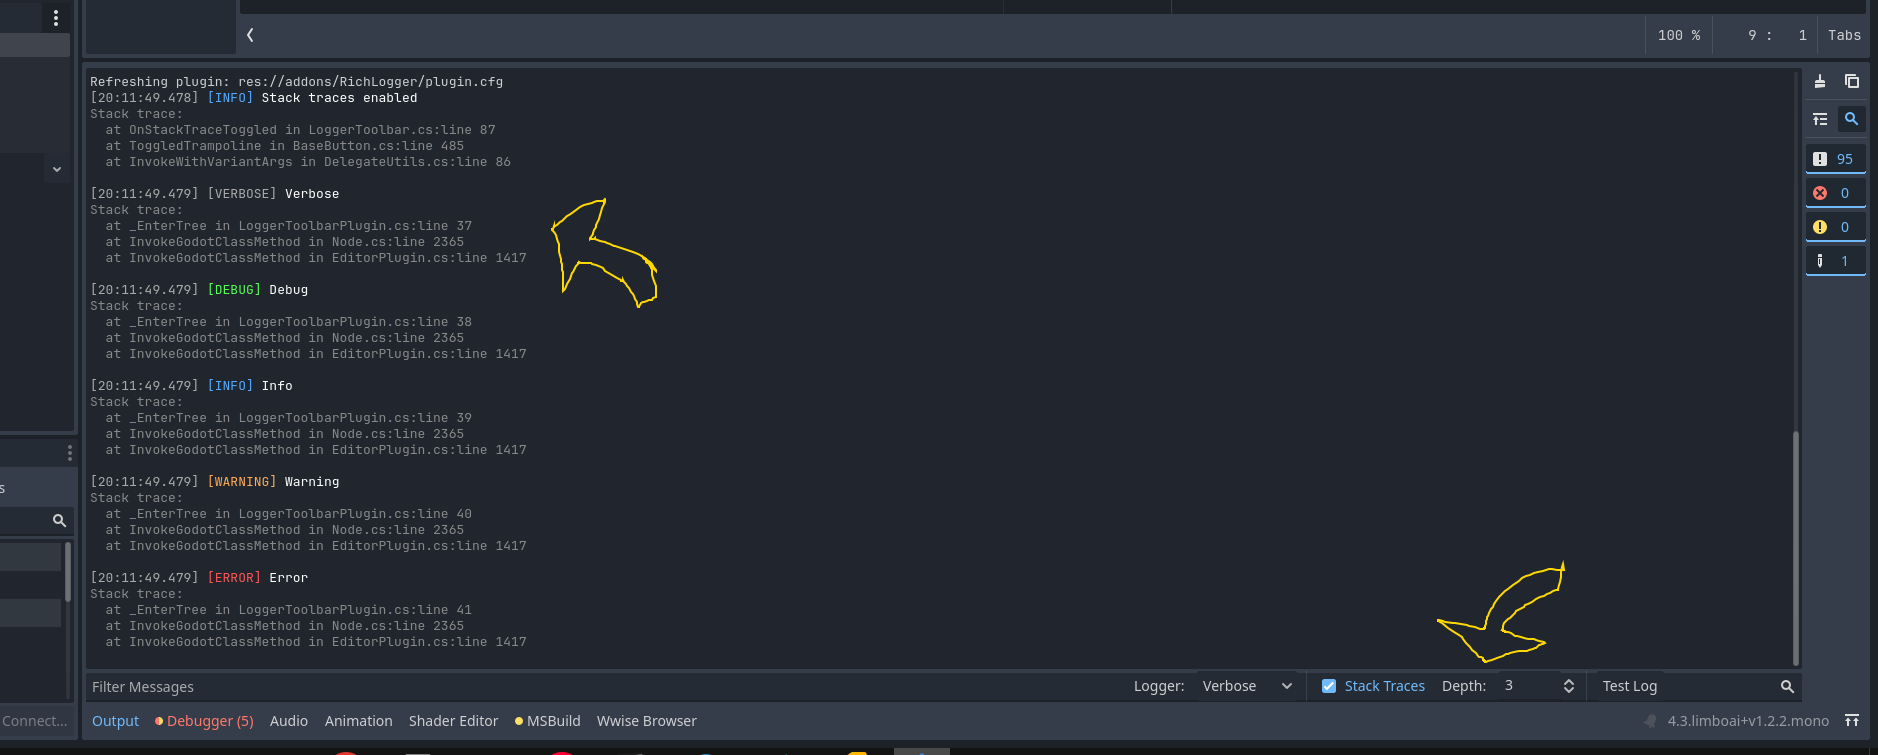
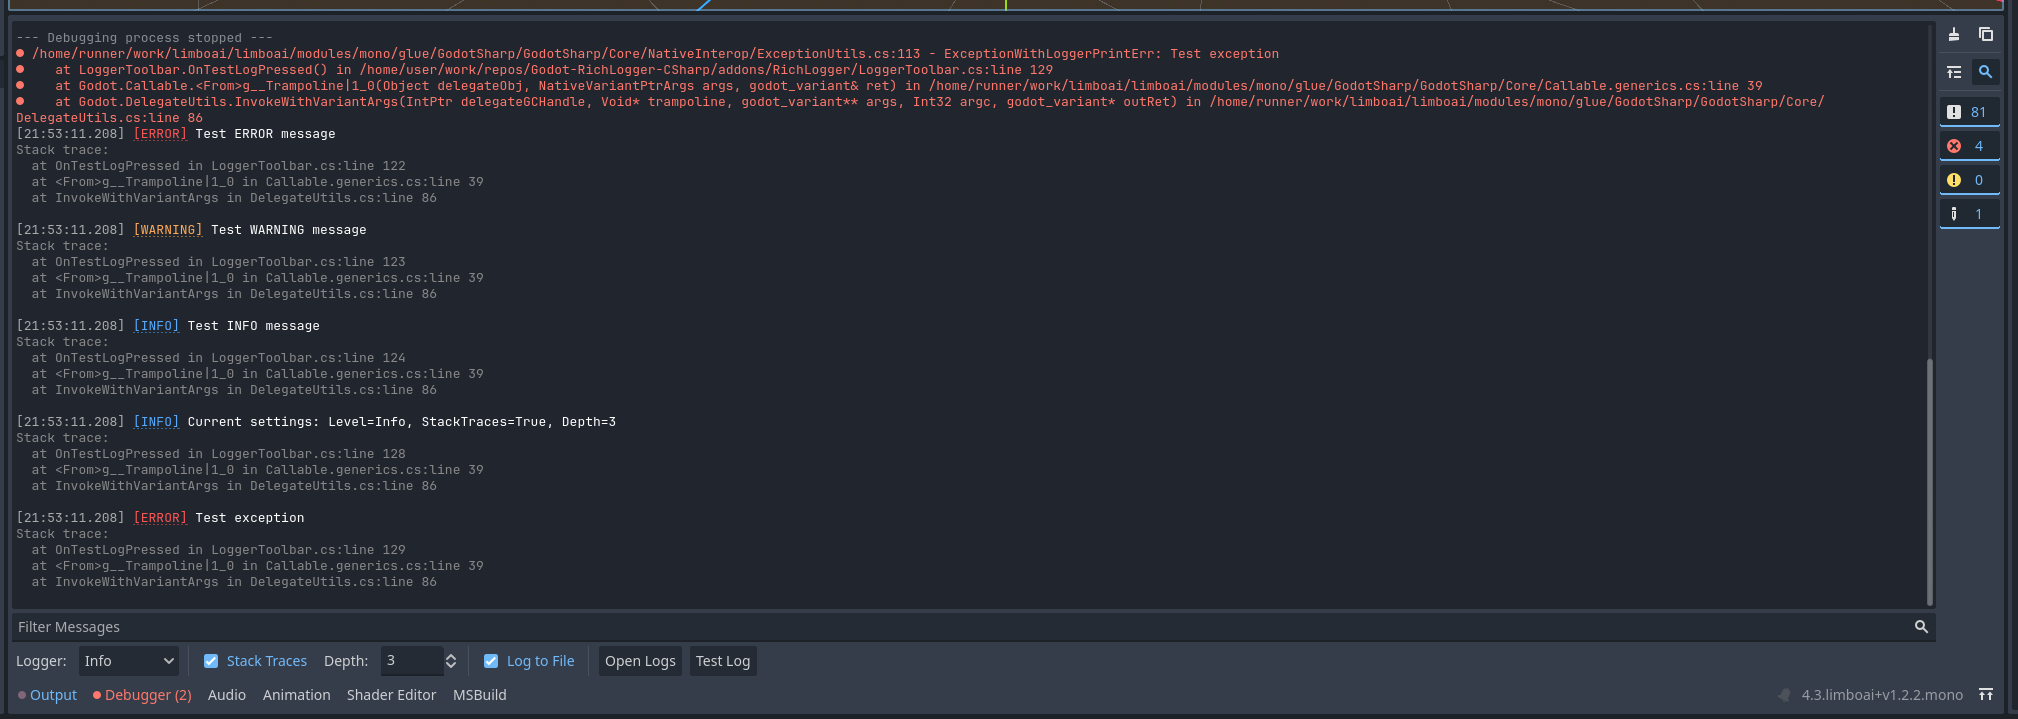
feat: add file logging with bbcode stripping and toolbar controls

diff --git a/addons/RichLogger/Logger.cs b/addons/RichLogger/Logger.cs
@@ -4,6 +4,7 @@ using System.Diagnostics;
 using System.IO;
 using System.Runtime.CompilerServices;
 using System.Text;
+using System.Text.RegularExpressions;
 
 public enum LogLevel
 {
@@ -14,22 +15,56 @@ public enum LogLevel
 	Verbose = 4
 }
 
-public static class Logger
+public static partial class Logger
 {
-	private const  string             PluginSettingsPath = "user://logger_settings.cfg";
-	private static FileSystemWatcher? _fileWatcher;
-	private static bool               _settingsChanged;
+	[GeneratedRegex(@"\[/?(?:color|hint)(?:=[^\]]+)?\]")]
+	private static partial Regex BbCodeRegex();
+
+	private const  string         PluginSettingsPath = "user://logger_settings.cfg";
+	private static LogFileWriter? _fileWriter;
+	private static DateTime       _lastSettingsCheck = DateTime.MinValue;
+	private static DateTime       _lastSettingsWrite = DateTime.MinValue;
+	private static bool           _checkInProgress;
 
 	static Logger()
 	{
 		LoadSettings();
 		SaveSettings();
-		SetupFileWatcher();
+		InitializeFileWriter();
+		_lastSettingsWrite = GetSettingsFileTime();
 	}
 
 	public static LogLevel CurrentLevel       { get; set; } = LogLevel.Info;
 	public static bool     IncludeStackTraces { get; set; }
 	public static int      StackTraceDepth    { get; set; } = 3;
+	public static bool     LogToFile          { get; set; } = true;
+
+	private static void InitializeFileWriter()
+	{
+		try
+		{
+			_fileWriter = new LogFileWriter();
+		}
+		catch (Exception ex)
+		{
+			GD.PrintErr($"Failed to initialize file writer: {ex.Message}");
+		}
+	}
+
+	private static DateTime GetSettingsFileTime()
+	{
+		try
+		{
+			var filePath = ProjectSettings.GlobalizePath(PluginSettingsPath);
+			if (File.Exists(filePath))
+				return File.GetLastWriteTimeUtc(filePath);
+		}
+		catch
+		{
+		}
+
+		return DateTime.MinValue;
+	}
 
 	public static void Error(string message,
 		[CallerMemberName] string   memberName = "",
@@ -99,8 +134,14 @@ public static class Logger
 		if (IncludeStackTraces)
 			stackTrace = GetStackTrace(skipFrames);
 
-		GD.PrintRich(coloredMessage + stackTrace);
+		var fullMessage = coloredMessage + stackTrace;
+		GD.PrintRich(fullMessage);
+
+		if (LogToFile)
+			_fileWriter?.Write(StripBbCode(fullMessage));
 	}
+
+	private static string StripBbCode(string text) => BbCodeRegex().Replace(text, "");
 
 	private static string GetCallerInfo(string memberName, string filePath, int lineNumber)
 	{
@@ -172,41 +213,20 @@ public static class Logger
 		Log(level, $"{context}: {objString}", memberName, filePath, lineNumber, skipFrames);
 	}
 
-	private static void SetupFileWatcher()
-	{
-		try
-		{
-			var filePath = ProjectSettings.GlobalizePath(PluginSettingsPath);
-			if (!File.Exists(filePath))
-				throw new FileNotFoundException($"Settings file not found: {filePath}");
-
-			var directory = Path.GetDirectoryName(filePath) ?? throw new InvalidOperationException("Invalid directory path");
-			var fileName = Path.GetFileName(filePath);
-
-			_fileWatcher = new FileSystemWatcher(directory)
-			{
-				Filter = fileName,
-				NotifyFilter = NotifyFilters.LastWrite | NotifyFilters.FileName,
-				IncludeSubdirectories = false,
-				EnableRaisingEvents = true
-			};
-			_fileWatcher.Changed += OnFileChanged;
-			_fileWatcher.Created += OnFileChanged;
-			_fileWatcher.Renamed += OnFileChanged;
-		}
-		catch (Exception ex)
-		{
-			InternalInfo($"File watcher setup failed: {ex.Message}");
-		}
-	}
-
-	private static void OnFileChanged(object sender, FileSystemEventArgs e) => _settingsChanged = true;
-
 	private static void CheckAndReloadSettings()
 	{
-		if (!_settingsChanged) return;
-		_settingsChanged = false;
-		LoadSettings();
+		var now = DateTime.UtcNow;
+		if ((now - _lastSettingsCheck).TotalSeconds < 1.0)
+			return;
+
+		_lastSettingsCheck = now;
+		var currentWriteTime = GetSettingsFileTime();
+
+		if (currentWriteTime > _lastSettingsWrite)
+		{
+			_lastSettingsWrite = currentWriteTime;
+			LoadSettings();
+		}
 	}
 
 	public static void SaveSettings()
@@ -215,6 +235,7 @@ public static class Logger
 		config.SetValue("Logger", "LogLevel", (int)CurrentLevel);
 		config.SetValue("Logger", "IncludeStackTraces", IncludeStackTraces);
 		config.SetValue("Logger", "StackTraceDepth", StackTraceDepth);
+		config.SetValue("Logger", "LogToFile", LogToFile);
 
 		var error = config.Save(PluginSettingsPath);
 		if (error != Godot.Error.Ok)
@@ -247,6 +268,12 @@ public static class Logger
 		{
 			var stackTraceDepth = (int)config.GetValue("Logger", "StackTraceDepth");
 			StackTraceDepth = stackTraceDepth;
+		}
+
+		if (config.HasSectionKey("Logger", "LogToFile"))
+		{
+			var logToFile = (bool)config.GetValue("Logger", "LogToFile");
+			LogToFile = logToFile;
 		}
 	}
 }

diff --git a/addons/RichLogger/LoggerToolbar.cs b/addons/RichLogger/LoggerToolbar.cs
@@ -6,6 +6,8 @@ public partial class LoggerToolbar : HBoxContainer
     private OptionButton _logLevelDropdown = null!;
     private CheckBox _stackTraceToggle = null!;
     private SpinBox _stackDepthSpinner = null!;
+    private CheckBox _logToFileToggle = null!;
+    private Button _openLogsButton = null!;
     private Button _testLogButton = null!;
 
     private string _pluginSettingsPath = "user://logger_settings.cfg";
@@ -60,6 +62,20 @@ public partial class LoggerToolbar : HBoxContainer
         var separator2 = new VSeparator();
         AddChild(separator2);
 
+        _logToFileToggle = new CheckBox { Text = "Log to File" };
+        _logToFileToggle.TooltipText = "Enable logging to file (user://logs/)";
+        _logToFileToggle.Toggled += OnLogToFileToggled;
+        AddChild(_logToFileToggle);
+
+        var separator3 = new VSeparator();
+        AddChild(separator3);
+
+        _openLogsButton = new Button();
+        _openLogsButton.Text = "Open Logs";
+        _openLogsButton.TooltipText = "Open logs directory";
+        _openLogsButton.Pressed += OnOpenLogsPressed;
+        AddChild(_openLogsButton);
+
         _testLogButton = new Button();
         _testLogButton.Text = "Test Log";
         _testLogButton.TooltipText = "Generate test logs at all levels";
@@ -88,6 +104,19 @@ public partial class LoggerToolbar : HBoxContainer
         Logger.SaveSettings();
     }
 
+    private static void OnLogToFileToggled(bool toggled)
+    {
+        Logger.LogToFile = toggled;
+        Logger.InternalInfo($"Log to file {(toggled ? "enabled" : "disabled")}");
+        Logger.SaveSettings();
+    }
+
+    private static void OnOpenLogsPressed()
+    {
+        var logsPath = ProjectSettings.GlobalizePath("user://logs/");
+        OS.ShellOpen(logsPath);
+    }
+
     private static void OnTestLogPressed()
     {
         Logger.Error("Test ERROR message");
@@ -105,5 +134,6 @@ public partial class LoggerToolbar : HBoxContainer
         _logLevelDropdown.Selected = (int)Logger.CurrentLevel;
         _stackTraceToggle.ButtonPressed = Logger.IncludeStackTraces;
         _stackDepthSpinner.Value = Logger.StackTraceDepth;
+        _logToFileToggle.ButtonPressed = Logger.LogToFile;
     }
 }

diff --git a/addons/RichLogger/LogFileWriter.cs b/addons/RichLogger/LogFileWriter.cs
@@ -1,0 +1,101 @@
+using Godot;
+using System;
+using System.IO;
+using System.Linq;
+
+public class LogFileWriter : IDisposable
+{
+	private readonly string       _logFilePath;
+	private readonly string       _logDirectory;
+	private          StreamWriter? _writer;
+	private          int          _messagesSinceFlush;
+	private          bool         _flushInProgress;
+
+	private const int FlushThreshold = 10;
+
+	public int MaxLogFiles { get; set; } = 10;
+
+	public LogFileWriter()
+	{
+		_logDirectory = ProjectSettings.GlobalizePath("user://logs/");
+		Directory.CreateDirectory(_logDirectory);
+
+		CleanupOldLogs();
+
+		var timestamp = DateTime.Now.ToString("yyyy-MM-dd_HH-mm-ss");
+		var context = Engine.IsEditorHint() ? "editor" : "game";
+		_logFilePath = Path.Combine(_logDirectory, $"logger_{timestamp}_{context}.log");
+
+		_writer = new StreamWriter(_logFilePath, true) { AutoFlush = false };
+	}
+
+	public void Write(string message)
+	{
+		if (_writer == null) return;
+
+		try
+		{
+			_writer.WriteLine(message);
+			_messagesSinceFlush++;
+
+			if (_messagesSinceFlush >= FlushThreshold && !_flushInProgress)
+			{
+				_messagesSinceFlush = 0;
+				_flushInProgress = true;
+
+				var writer = _writer;
+				WorkerThreadPool.AddTask(Callable.From(() =>
+				{
+					try
+					{
+						writer?.Flush();
+					}
+					catch (Exception ex)
+					{
+						GD.PrintErr($"LogFileWriter flush error: {ex.Message}");
+					}
+					finally
+					{
+						_flushInProgress = false;
+					}
+				}));
+			}
+		}
+		catch (Exception ex)
+		{
+			GD.PrintErr($"LogFileWriter error: {ex.Message}");
+		}
+	}
+
+	private void CleanupOldLogs()
+	{
+		try
+		{
+			var logFiles = Directory.GetFiles(_logDirectory, "logger_*.log")
+				.OrderByDescending(f => f)
+				.Skip(MaxLogFiles - 1)
+				.ToList();
+
+			foreach (var file in logFiles)
+				File.Delete(file);
+		}
+		catch (Exception ex)
+		{
+			GD.PrintErr($"Failed to cleanup old logs: {ex.Message}");
+		}
+	}
+
+	public void Dispose()
+	{
+		try
+		{
+			_writer?.Flush();
+			_writer?.Dispose();
+			_writer = null;
+		}
+		catch (Exception ex)
+		{
+			GD.PrintErr($"LogFileWriter dispose error: {ex.Message}");
+		}
+	}
+}

diff --git a/README.md b/README.md
@@ -5,9 +5,12 @@ A feature-rich logging utility addon for Godot 4.x C# projects that enhances the
 
 ## Features
 - **Enhanced Output Formatting** - Format your logs with rich text, colors, and styling
-- **Log Filtering** - Filter logs by log level directly from the Godot editor
+- **5 Log Levels** - Error, Warning, Info, Debug, Verbose with visual differentiation
+- **Stack Traces** - Toggle stack traces on/off with configurable depth
+- **Caller Information** - Hover over log level to see class, method, file, and line number
 - **Integrated Toolbar** - Convenient controls added to the output panel
-- **Log Levels** - Standard log levels (Debug, Info, Warning, Error) with visual differentiation
+- **Runtime Settings** - Change log settings during gameplay, updates automatically
+- **File Logging** - Write logs to files, quick access button to open logs directory, non-blocking file I/O
 - **Easy Integration** - Simple API for logging from anywhere in your Godot C# code
 
 ## Installation
@@ -19,26 +22,54 @@ A feature-rich logging utility addon for Godot 4.x C# projects that enhances the
 ## Usage
 ### Basic Logging
 ``` csharp
-Logger.Debug("This is a debug message");
-Logger.Info("This is an information message");
-Logger.Warning("This is a warning message");
 Logger.Error("This is an error message");
+Logger.Warning("This is a warning message");
+Logger.Info("This is an information message");
+Logger.Debug("This is a debug message");
+Logger.Verbose("This is a verbose message");
 ```
+
 ### Formatted Logging
 ``` csharp
 // Use BBCode for rich text formatting
 Logger.Info("[b]Bold text[/b] and [i]italic text[/i]");
 Logger.Debug("Player position: [color=yellow]" + player.Position + "[/color]");
 ```
-### Using the Toolbar
-The plugin adds a toolbar to the output panel that allows you to:
-- Filter logs by level
-- Enable/disable stack traces and set their depth
+
+### Stack Traces
+``` csharp
+// Enable stack traces from the toolbar or programmatically
+Logger.IncludeStackTraces = true;
+Logger.StackTraceDepth = 5;
+
+Logger.Error("Something went wrong");
+// Output includes stack trace with 5 frames
+```
+
+### Logging Objects
+``` csharp
+Logger.LogObject(LogLevel.Info, "Player", playerNode);
+// Output: Player: <Node:12345>
+```
+
+### File Logging
+Logs are automatically written to `user://logs/` when enabled:
+- Files are named: `logger_YYYY-MM-DD_HH-mm-ss_editor.log` or `logger_YYYY-MM-DD_HH-mm-ss_game.log`
+- Editor and game maintain separate log files
+- Automatically keeps last 10 log files (older files are deleted)
+- BBCode formatting is stripped for clean file output
+- Non-blocking I/O using Godot's WorkerThreadPool
+
+### Runtime Settings Changes
+All settings can be changed during gameplay:
+- Changes in editor toolbar automatically sync to running game
+- Settings persist across sessions via `user://logger_settings.cfg`
+- Updates check every 1 second with non-blocking file I/O
 
 ## Contributing
 Contributions are welcome! Please feel free to submit a Pull Request.
 
 ## License
 This plugin is released under the MIT License. See the LICENSE file for details.  
-  
+
 _Made with ❤ for the Godot community_
